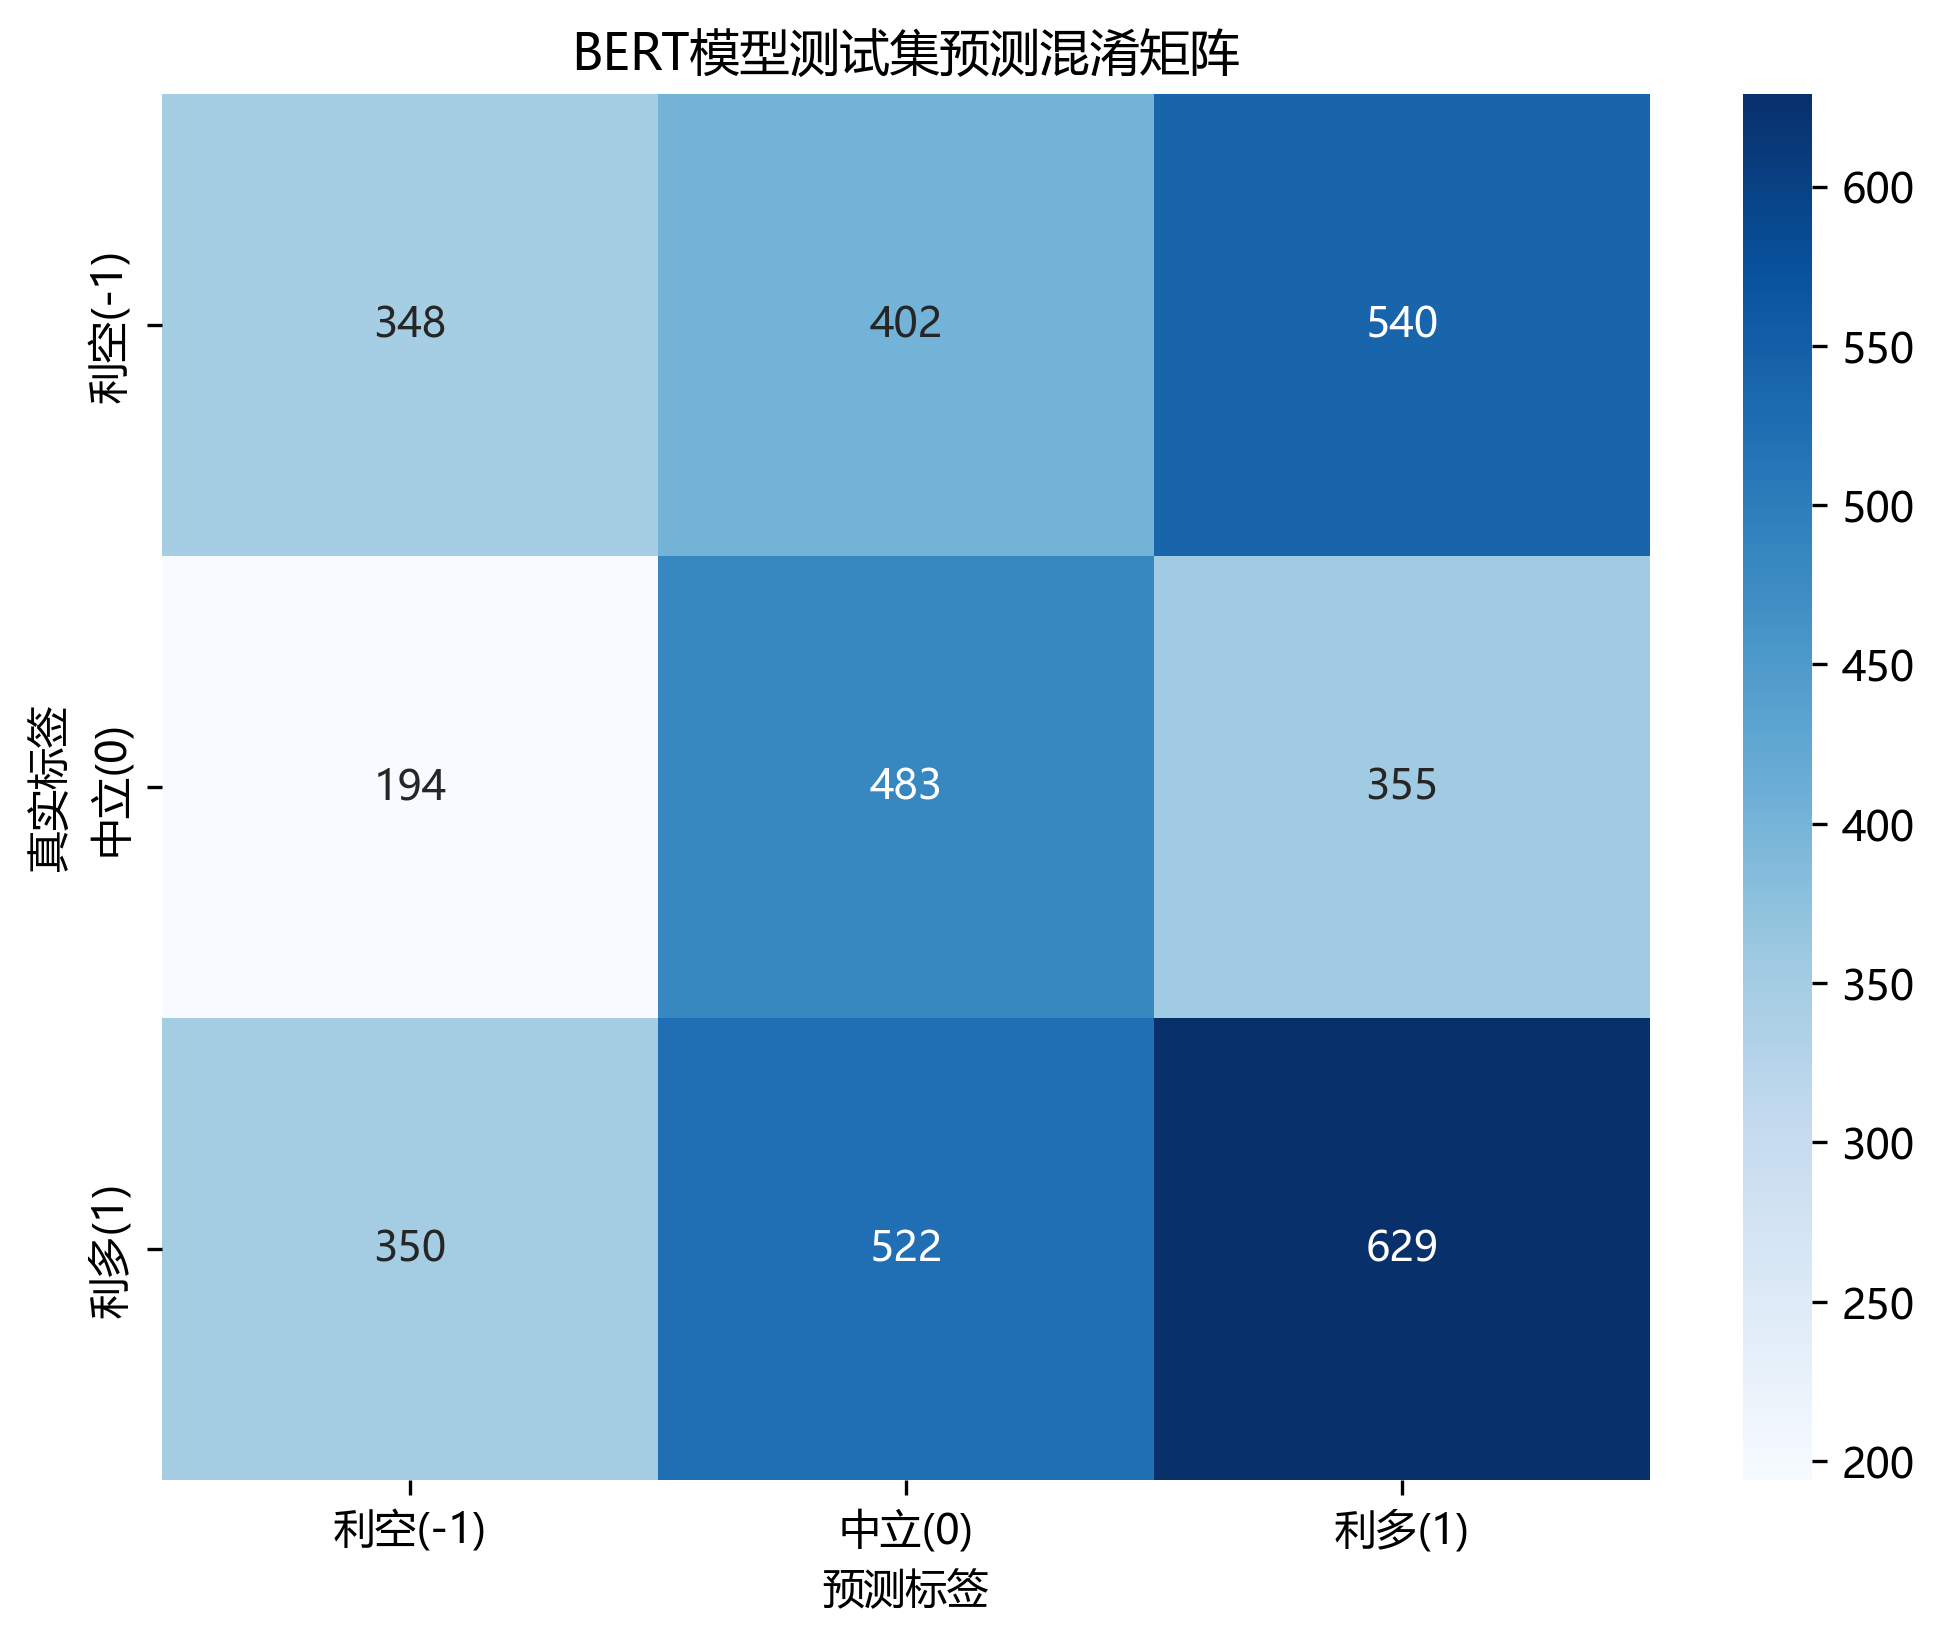
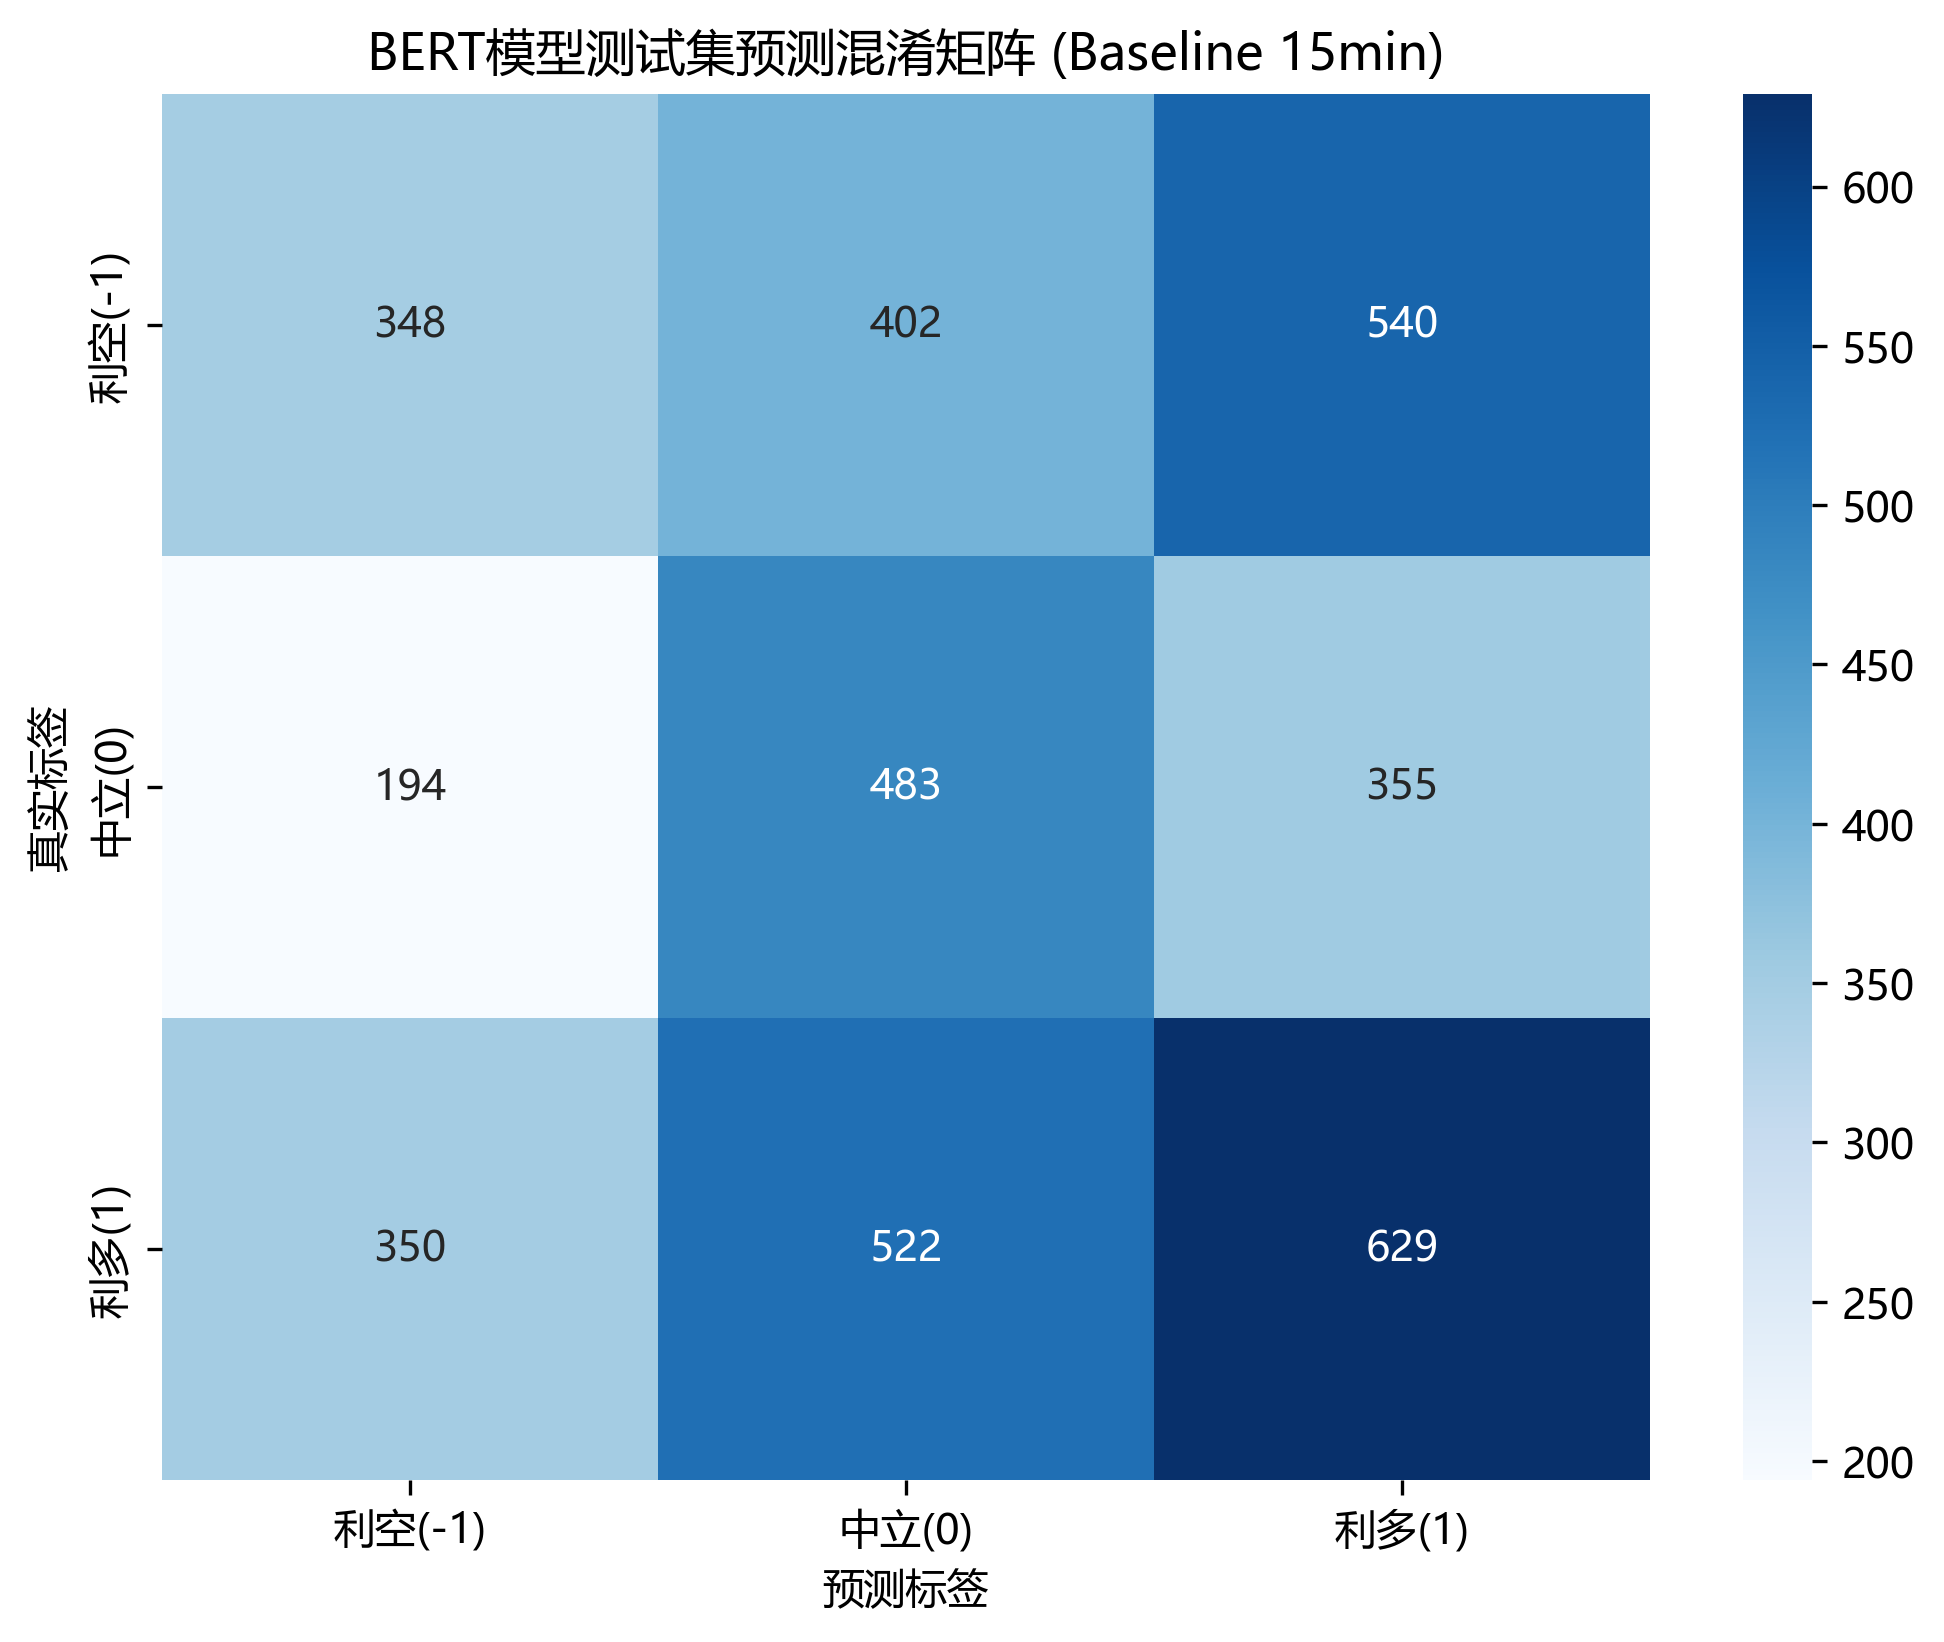
feat: 补充 30分钟窗口 (w30) 模型效果对比图
- generate_thesis_charts.py: 新增 30分钟窗口混淆矩阵生成
- 结论: 30分钟窗口 Macro F1=0.3332 低于 Baseline(15min)的 0.3770
- 在第六章可用此证明 15分钟窗口是捕获黄金市场短期冲击的最优选择

Changed region(s): [[0.1852, 0.0, 0.6481, 0.0621], [0.679, 0.0, 0.7407, 0.0621]]

diff --git a/scripts/generate_thesis_charts.py b/scripts/generate_thesis_charts.py
@@ -73,13 +73,32 @@ def generate_charts():
     sns.heatmap(cm_df, annot=True, fmt='d', cmap='Blues', 
                 xticklabels=['利空(-1)', '中立(0)', '利多(1)'], 
                 yticklabels=['利空(-1)', '中立(0)', '利多(1)'])
-    plt.title('BERT模型测试集预测混淆矩阵')
+    plt.title('BERT模型测试集预测混淆矩阵 (Baseline 15min)')
     plt.xlabel('预测标签')
     plt.ylabel('真实标签')
     plt.savefig(os.path.join(OUTPUT_DIR, 'confusion_matrix.png'), dpi=300, bbox_inches='tight')
     plt.close()
-    print("已生成混淆矩阵热力图")
+    print("已生成 Baseline 混淆矩阵热力图")
     
+    # 3. W30 预测混淆矩阵图表
+    W30_PRED_CSV = os.path.join(BASE_DIR, "reports", "bert_3cls_w30_v1", "pred_test.csv")
+    if os.path.exists(W30_PRED_CSV):
+        print(f"读取 W30 预测数据: {W30_PRED_CSV}...")
+        df_pred_w30 = pd.read_csv(W30_PRED_CSV, encoding='utf-8')
+        cm_w30 = pd.crosstab(df_pred_w30['label'], df_pred_w30['pred'], dropna=False)
+        cm_w30 = cm_w30.reindex(index=labels_order, columns=labels_order, fill_value=0)
+        
+        plt.figure(figsize=(8, 6))
+        sns.heatmap(cm_w30, annot=True, fmt='d', cmap='Purples', 
+                    xticklabels=['利空(-1)', '中立(0)', '利多(1)'], 
+                    yticklabels=['利空(-1)', '中立(0)', '利多(1)'])
+        plt.title('BERT模型测试集预测混淆矩阵 (Ours 30min)')
+        plt.xlabel('预测标签')
+        plt.ylabel('真实标签')
+        plt.savefig(os.path.join(OUTPUT_DIR, 'confusion_matrix_w30.png'), dpi=300, bbox_inches='tight')
+        plt.close()
+        print("已生成 W30 混淆矩阵热力图")
+
     print(f"所有图表均已成功保存至: {OUTPUT_DIR}")
 
 if __name__ == "__main__":
